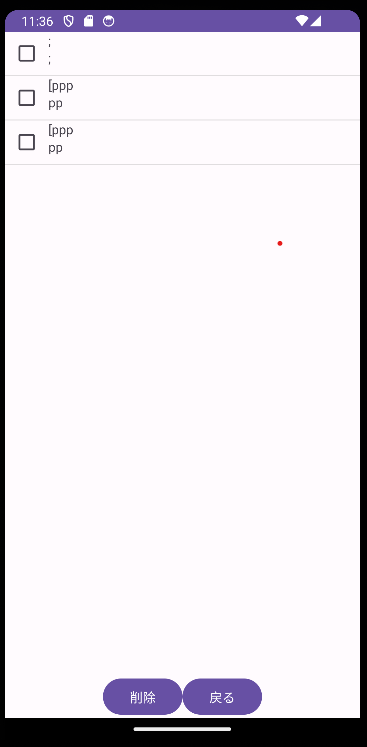
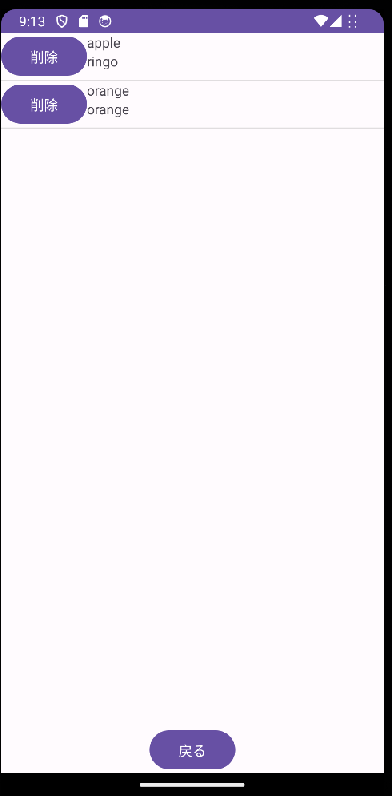
#4 - delete the added word in DB

diff --git a/app/src/main/java/zoeque/odin/adapter/WordAdapter.java b/app/src/main/java/zoeque/odin/adapter/WordAdapter.java
@@ -1,23 +1,29 @@
 package zoeque.odin.adapter;
 
+import android.app.Activity;
 import android.content.Context;
 import android.view.LayoutInflater;
 import android.view.View;
 import android.view.ViewGroup;
 import android.widget.ArrayAdapter;
-import android.widget.CheckBox;
+import android.widget.Button;
 import android.widget.TextView;
 
 import java.util.List;
 
 import zoeque.odin.R;
 import zoeque.odin.domain.entity.Word;
+import zoeque.odin.domain.repository.OdinDatabase;
+import zoeque.odin.domain.repository.OdinDatabaseSingleTon;
+import zoeque.odin.service.DeleteWordAsyncTaskExecutor;
 
 public class WordAdapter extends ArrayAdapter<Word> {
     private LayoutInflater inflater;
+    Context context;
 
     public WordAdapter(Context context, List<Word> words) {
         super(context, 0, words);
+        this.context = context;
         inflater = (LayoutInflater) context.getSystemService(Context.LAYOUT_INFLATER_SERVICE);
     }
 
@@ -29,12 +35,34 @@ public class WordAdapter extends ArrayAdapter<Word> {
 
         Word word = getItem(position);
 
-        CheckBox checkBox = convertView.findViewById(R.id.check_box);
+        Button buttonToDelete = convertView.findViewById(R.id.button_to_delete);
         TextView textViewWord = convertView.findViewById(R.id.text_view_word);
         TextView textViewMeaning = convertView.findViewById(R.id.text_view_meaning);
 
         textViewWord.setText(word.getWord());
         textViewMeaning.setText(word.getMeaning());
+
+        OdinDatabase db = OdinDatabaseSingleTon.getInstance(this.context);
+        buttonToDelete.setOnClickListener(new View.OnClickListener() {
+            @Override
+            public void onClick(View v) {
+                DeleteWordAsyncTaskExecutor
+                        .getDatabaseWriteExecutor()
+                        .execute(new Runnable() {
+                    @Override
+                    public void run() {
+                        db.wordDao().delete(word);
+                        ((Activity) context).runOnUiThread(new Runnable() {
+                            @Override
+                            public void run() {
+                                remove(word);
+                                notifyDataSetChanged();
+                            }
+                        });
+                    }
+                });
+            }
+        });
 
         return convertView;
     }

diff --git a/app/src/main/java/zoeque/odin/domain/activity/ListScreenActivity.java b/app/src/main/java/zoeque/odin/domain/activity/ListScreenActivity.java
@@ -4,6 +4,8 @@ import android.content.Intent;
 import android.os.Bundle;
 import android.view.View;
 import android.widget.Button;
+import android.widget.CheckBox;
+import android.widget.CompoundButton;
 import android.widget.ListView;
 
 import androidx.appcompat.app.AppCompatActivity;
@@ -26,6 +28,7 @@ public class ListScreenActivity extends AppCompatActivity {
 
         OdinDatabase db = OdinDatabaseSingleTon.getInstance(getApplicationContext());
 
+        // The process of list view
         WordAdapter adapter = new WordAdapter(this, new ArrayList<>());
         ListView listView = findViewById(R.id.list_view);
         listView.setAdapter(adapter);
@@ -41,6 +44,8 @@ public class ListScreenActivity extends AppCompatActivity {
                     }
                 });
 
+
+        // the button control to back to the top maintenance screen
         Button buttonToMaintenanceScreen = findViewById(R.id.button_to_maintenance);
         buttonToMaintenanceScreen.setOnClickListener(new View.OnClickListener() {
             public void onClick(View v) {

diff --git a/app/src/main/java/zoeque/odin/service/DeleteWordAsyncTaskExecutor.java b/app/src/main/java/zoeque/odin/service/DeleteWordAsyncTaskExecutor.java
@@ -1,0 +1,16 @@
+package zoeque.odin.service;
+
+import java.util.concurrent.ExecutorService;
+import java.util.concurrent.Executors;
+
+/**
+ * the task executor that runs not-synchronized
+ */
+public class DeleteWordAsyncTaskExecutor {
+    private static final ExecutorService databaseWriteExecutor =
+            Executors.newFixedThreadPool(4);
+
+    public static ExecutorService getDatabaseWriteExecutor() {
+        return databaseWriteExecutor;
+    }
+}
